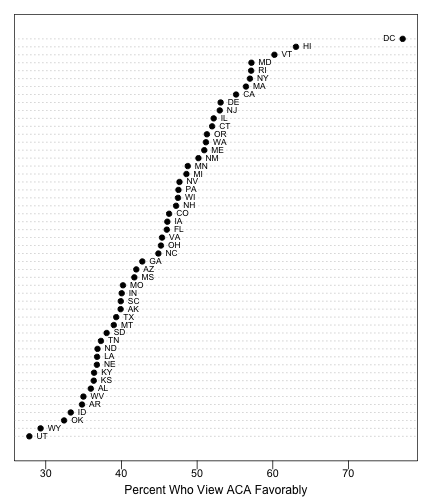
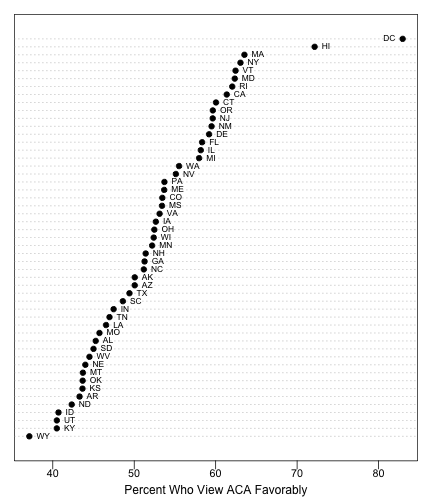
run full model

diff --git a/README.md b/README.md
@@ -1,7 +1,7 @@
 # Overview
 
 
-This repository contains state-level estimates of favorability toward the Affordable Care Act for 2013. I combine data from the Kaiser Tracking Poll from February 2013 to November 2013 (excluding May and July) using multilevel regression with post-stratification.
+This repository contains state-level estimates of favorability toward the Affordable Care Act for 2013. To produce the estimates, I combine data from the Kaiser Tracking Poll from February 2013 to November 2013 (excluding May and July) with Census data and Obama's 2012 vote share using multilevel regression with post-stratification.
 
 The procedure estimates the percentage of citizens in each state that answered either Very Favorable or Somewhat Favorable to the following question: 
 
